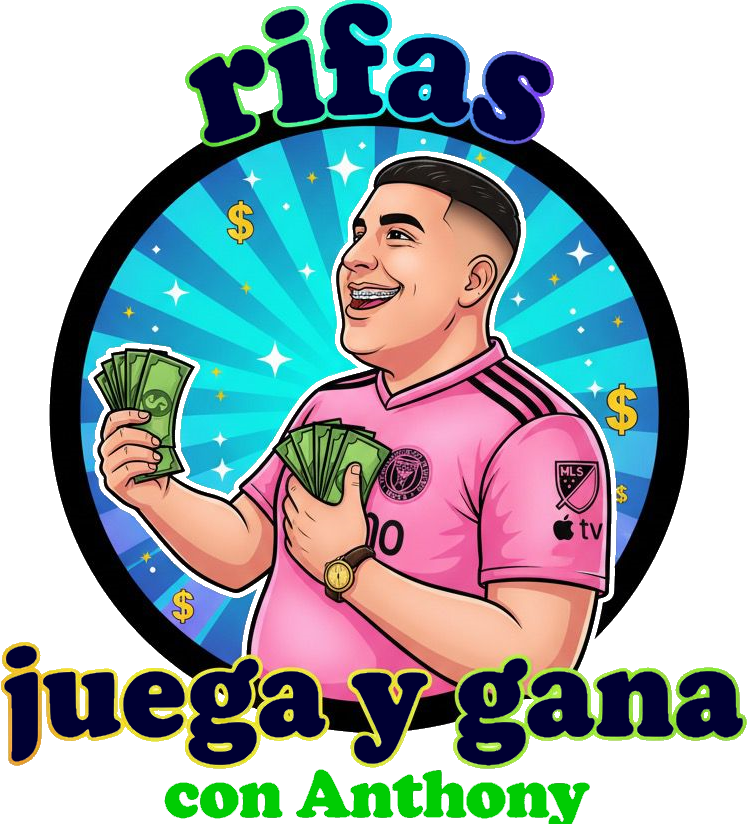
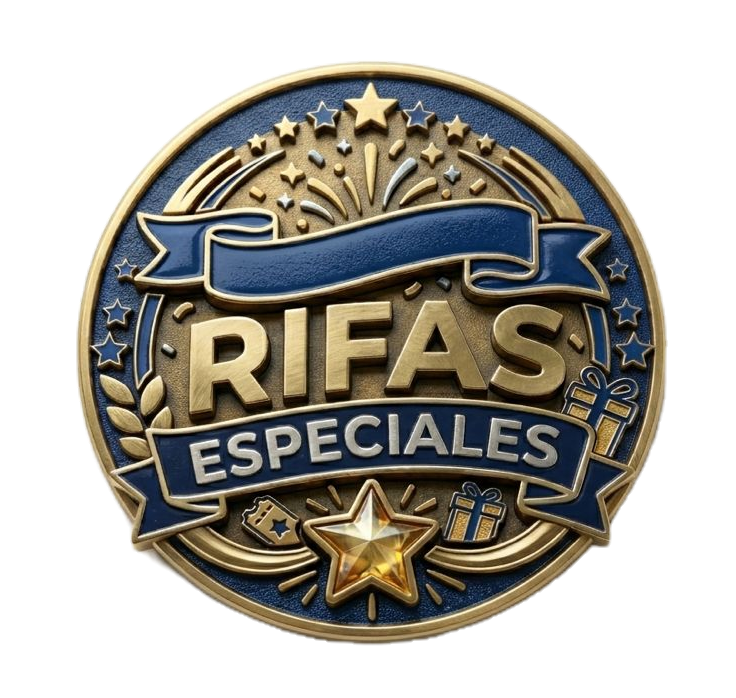
.

diff --git a/crear.py b/crear.py
@@ -18,16 +18,16 @@ cursor.execute("""
                );
 """)
 
-# Tabla "tickets_disponibles" (del 1 al 10.000)
+# Tabla "tickets_disponibles" (del 1 al 100)
 cursor.execute("""
 CREATE TABLE IF NOT EXISTS tickets_disponibles (
     carton_disponible INTEGER PRIMARY KEY
 );""")
 
-# Insertar los cartones disponibles (1 al 10.000)
+# Insertar los cartones disponibles (1 al 100)
 cursor.executemany("""
 INSERT OR IGNORE INTO tickets_disponibles (carton_disponible) VALUES (?);
-""", [(i,) for i in range(0, 10000)])
+""", [(i,) for i in range(0, 100)])
 
 # Tabla "tickets_usados"
 cursor.execute("""